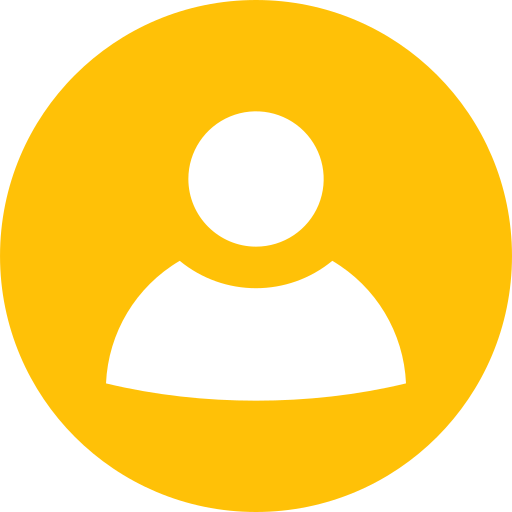
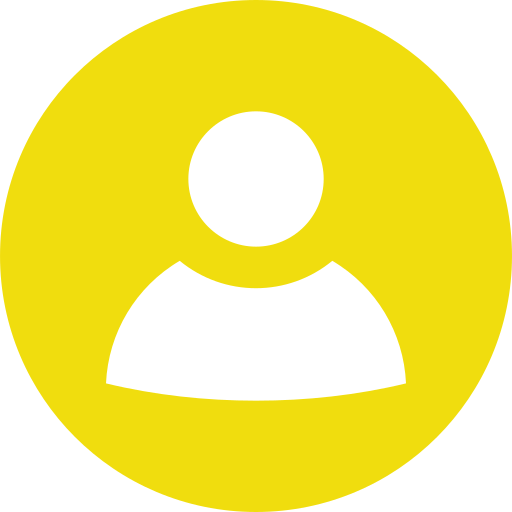
[TK-03] Registro e inicio de sesion completo

diff --git a/src/app/pages/login/login.component.ts b/src/app/pages/login/login.component.ts
@@ -1,3 +1,4 @@
+import { Router } from '@angular/router';
 import { LoginService } from './../../services/login.service';
 import { MatSnackBar } from '@angular/material/snack-bar';
 import { Component, OnInit } from '@angular/core';
@@ -15,7 +16,8 @@ export class LoginComponent implements OnInit {
   }
 
   constructor(private snack:MatSnackBar,
-    private loginService:LoginService) { }
+    private loginService:LoginService,
+    private router:Router) { }
 
   ngOnInit(): void {
   }
@@ -41,11 +43,29 @@ export class LoginComponent implements OnInit {
 
         this.loginService.loginUser(data.token);
         this.loginService.getUsuarioActual().subscribe((user:any) => {
+          this.loginService.setUser(user);
           console.log(user);
+
+          if(this.loginService.getUserRol() == 'ROLE_ADMIN'){
+            //dashboard admin
+            //window.location.href = '/admin';
+            this.router.navigate(['admin']);
+            this.loginService.loginStatusSubjec.next(true);
+          }else if(this.loginService.getUserRol() == 'ROLE_USER'){
+            //dashboard user
+            //window.location.href = '/user-dashboard';
+            this.router.navigate(['user-dashboard']);
+            this.loginService.loginStatusSubjec.next(true);
+          }else{
+            this.loginService.logOut();
+          }
         })
       },
       (error) => {
         console.log(error);
+        this.snack.open('Detalles invalidos, vuelva a intentarlo', 'Aceptar', {
+          duration: 3000
+        })
       }
     )
   }

diff --git a/src/app/components/navbar/navbar.component.html b/src/app/components/navbar/navbar.component.html
@@ -1,4 +1,4 @@
-<mat-toolbar color="primary">
+<mat-toolbar class="color-navbar">
     <a [routerLink] = "'/'"
         mat-icon-button class="example-icon" arial-label="example icon-button with menu icon">
         <mat-icon>fitness_center</mat-icon>
@@ -6,11 +6,32 @@
     <span>Gimnasio EnerGym</span>
     <span class="example-spacer"></span>
 
-    <a [routerLink] = "'login'" mat-icon-button class="example-icon favorite-icon" 
+    <a 
+    *ngIf = "!isLoggedIn"
+    [routerLink] = "'/login'" 
+    mat-icon-button class="example-icon favorite-icon" 
     aria-label="Example icon-button with heart icon"> Iniciar sesión </a>
 
-    <a [routerLink] = "'signup'" mat-icon-button class="example-icon favorite-icon mr20 ml70" 
+    <a 
+    *ngIf = "!isLoggedIn"
+    [routerLink] = "'/signup'" 
+    mat-icon-button class="example-icon favorite-icon mr20 ml70" 
     aria-label="Example icon-button with heart icon"> Registrarse </a>
 
+    <a 
+    *ngIf = "isLoggedIn"
+    (click) = "cerrarSesion()" 
+    style="margin-right: 50px;"
+    mat-icon-button class="example-icon favorite-icon" 
+    aria-label="Example icon-button with heart icon"> Cerrar sesión </a>
+
+    <button
+    *ngIf = "isLoggedIn && user"
+    mat-button 
+    style="margin-right: 10px;"
+    class="example-icon favorite-icon" 
+    aria-label="Example icon-button with heart icon"> 
+    {{user.username}}
+    </button>
 
 </mat-toolbar>

diff --git a/src/app/pages/login/login.component.html b/src/app/pages/login/login.component.html
@@ -7,6 +7,10 @@
                         <img src="../../../assets/login.png" width="100" height="100">
                     </div>
                     <h1 class="text-center"> Iniciar sesión </h1>
+
+                    <!-- formSubmit(): se encarga de validar que tanto usuario y contraseña hayan sido
+                         digitados de ser asi, se genera el token a partir del usuario actual
+                        (el que esta iniciando sesion) para ser almacenado en el LocalStorage-->
                     <form (ngSubmit) = "formSubmit()">
                         <mat-form-field class="full-width" appearance="outline">
                             <mat-label>Usuario</mat-label>
@@ -23,8 +27,8 @@
                         <br><br>
 
                         <div class="container text-center">
-                            <button mat-raised-button color="primary"> Iniciar sesion </button>
-                            <button type="reset" style="margin-left: 20px;" mat-raised-button color="accent"> Limpiar campos </button>
+                            <button class="background-button" mat-raised-button> Iniciar sesion </button>
+                            <button type="reset" style="margin-left: 20px;" mat-raised-button color="primary"> Limpiar campos </button>
                         </div>
                     </form>
                 </mat-card>

diff --git a/src/app/services/auth.interceptor.ts b/src/app/services/auth.interceptor.ts
@@ -1,14 +1,36 @@
 import { LoginService } from './login.service';
-import { HttpHandler, HttpInterceptor, HttpRequest } from "@angular/common/http";
+import { HttpEvent, HttpHandler, HttpInterceptor, HttpRequest, HTTP_INTERCEPTORS } from "@angular/common/http";
 import { Injectable } from "@angular/core";
+import { Observable } from 'rxjs';
 
 @Injectable()
 export class AuthInterceptor implements HttpInterceptor{
     
     constructor(private loginService:LoginService){}
 
+    /**
+     * El interceptor nos sirve para modificar peticiones.
+     * con este metodo lo que hacemos es añadir una cabecera del bearer token para cualquier tipo de 
+     * peticion... GET POST PUT DELETE
+     * @param req 
+     * @param next 
+     * @returns 
+     */
     intercept(req: HttpRequest<any>, next: HttpHandler): Observable<HttpEvent<any>> {
         let authReq = req;
-        
+        const token = this.loginService.getToken();
+
+        if(token != null){
+            authReq = authReq.clone({
+                setHeaders: {Authorization: `Bearer ${token}`}
+            })
+        }
+        return next.handle(authReq);
     }
 }
+
+export const AuthInterceptorProviders = [{
+    provide: HTTP_INTERCEPTORS,
+    useClass: AuthInterceptor,
+    multi: true
+}]

diff --git a/src/app/app.module.ts b/src/app/app.module.ts
@@ -19,6 +19,10 @@ import { HomeComponent } from './pages/home/home.component';
 import { MatCardModule } from '@angular/material/card';
 import {MatToolbarModule} from '@angular/material/toolbar';
 import {MatIconModule} from '@angular/material/icon';
+import { AuthInterceptorProviders } from './services/auth.interceptor';
+import { DashboardComponent } from './pages/admin/dashboard/dashboard.component';
+import { UserDashboardComponent } from './pages/user/user-dashboard/user-dashboard.component';
+import { ProfileComponent } from './pages/profile/profile.component';
 
 @NgModule({
   declarations: [
@@ -26,7 +30,10 @@ import {MatIconModule} from '@angular/material/icon';
     NavbarComponent,
     SignupComponent,
     LoginComponent,
-    HomeComponent
+    HomeComponent,
+    DashboardComponent,
+    UserDashboardComponent,
+    ProfileComponent
   ],
   imports: [
     BrowserModule,
@@ -42,7 +49,7 @@ import {MatIconModule} from '@angular/material/icon';
     MatToolbarModule,
     MatIconModule
   ],
-  providers: [],
+  providers: [AuthInterceptorProviders],
   bootstrap: [AppComponent]
 })
 export class AppModule { }

diff --git a/src/app/app-routing.module.ts b/src/app/app-routing.module.ts
@@ -1,7 +1,11 @@
+import { NormalGuard } from './services/normal.guard';
+import { AdminGuard } from './services/admin.guards';
+import { UserDashboardComponent } from './pages/user/user-dashboard/user-dashboard.component';
+import { DashboardComponent } from './pages/admin/dashboard/dashboard.component';
 import { LoginComponent } from './pages/login/login.component';
 import { SignupComponent } from './pages/signup/signup.component';
 import { NgModule, Component } from '@angular/core';
-import { RouterModule, Routes } from '@angular/router';
+import { RouterModule, Routes, CanActivate } from '@angular/router';
 import { HomeComponent } from './pages/home/home.component';
 
 const routes: Routes = [
@@ -25,6 +29,18 @@ const routes: Routes = [
     path:'login',
     component:LoginComponent,
     pathMatch:'full'
+  },
+  {
+    path:'admin',
+    component:DashboardComponent,
+    pathMatch:'full',
+    canActivate:[AdminGuard]
+  },
+  {
+    path:'user-dashboard',
+    component:UserDashboardComponent,
+    pathMatch:'full',
+    canActivate: [NormalGuard]
   }
 ];
 

diff --git a/src/app/services/admin.guards.ts b/src/app/services/admin.guards.ts
@@ -1,0 +1,32 @@
+import { LoginService } from './login.service';
+import { Injectable } from '@angular/core';
+import { ActivatedRouteSnapshot, CanActivate, Router, RouterStateSnapshot, UrlTree } from '@angular/router';
+import { Observable } from 'rxjs';
+
+@Injectable({
+  providedIn: 'root'
+})
+export class AdminGuard implements CanActivate {
+
+  constructor(private loginService:LoginService,private router:Router){}
+
+  /**
+   * Los Guard se ejecutan antes de cargar una ruta y determinan si se puede cargar
+   * dicha ruta o no 
+   * canActivate: Antes de cargar los componentes de la ruta 
+   * @param route 
+   * @param state 
+   * @returns 
+   */
+  canActivate(
+    route: ActivatedRouteSnapshot,
+    state: RouterStateSnapshot): Observable<boolean | UrlTree> | Promise<boolean | UrlTree> | boolean | UrlTree {
+    if(this.loginService.isLoggedIn() && this.loginService.getUserRol() == 'ROLE_ADMIN'){
+      return true;
+    }
+
+    this.router.navigate(['login']);
+    return false;
+  }
+
+}

diff --git a/src/app/components/navbar/navbar.component.ts b/src/app/components/navbar/navbar.component.ts
@@ -1,4 +1,5 @@
 import { Component, OnInit } from '@angular/core';
+import { LoginService } from 'src/app/services/login.service';
 
 @Component({
   selector: 'app-navbar',
@@ -7,9 +8,24 @@ import { Component, OnInit } from '@angular/core';
 })
 export class NavbarComponent implements OnInit {
 
-  constructor() { }
+  isLoggedIn = false;
+  user:any = null;
+
+  constructor(public login:LoginService) { }
 
   ngOnInit(): void {
+    this.isLoggedIn = this.login.isLoggedIn();
+    this.user = this.login.getUser();
+    this.login.loginStatusSubjec.asObservable().subscribe(
+      data => {
+        this.isLoggedIn = this.login.isLoggedIn();
+        this.user = this.login.getUser();
+      }
+    )
   }
 
+  public cerrarSesion(){
+    this.login.logOut();
+    window.location.reload();
+  }
 }

diff --git a/src/app/services/normal.guard.ts b/src/app/services/normal.guard.ts
@@ -1,0 +1,23 @@
+import { Injectable } from '@angular/core';
+import { ActivatedRouteSnapshot, CanActivate, Router, RouterStateSnapshot, UrlTree } from '@angular/router';
+import { Observable } from 'rxjs';
+import { LoginService } from './login.service';
+
+@Injectable({
+  providedIn: 'root'
+})
+export class NormalGuard implements CanActivate {
+
+  constructor(private loginService:LoginService,private router:Router){}
+
+  canActivate(
+    route: ActivatedRouteSnapshot,
+    state: RouterStateSnapshot): Observable<boolean | UrlTree> | Promise<boolean | UrlTree> | boolean | UrlTree {
+      if(this.loginService.isLoggedIn() && this.loginService.getUserRol() == 'ROLE_USER'){
+        return true;
+      }
+  
+      this.router.navigate(['login']);
+      return false;
+    }
+}

diff --git a/src/app/pages/user/user-dashboard/user-dashboard.component.spec.ts b/src/app/pages/user/user-dashboard/user-dashboard.component.spec.ts
@@ -1,0 +1,23 @@
+import { ComponentFixture, TestBed } from '@angular/core/testing';
+
+import { UserDashboardComponent } from './user-dashboard.component';
+
+describe('UserDashboardComponent', () => {
+  let component: UserDashboardComponent;
+  let fixture: ComponentFixture<UserDashboardComponent>;
+
+  beforeEach(async () => {
+    await TestBed.configureTestingModule({
+      declarations: [ UserDashboardComponent ]
+    })
+    .compileComponents();
+
+    fixture = TestBed.createComponent(UserDashboardComponent);
+    component = fixture.componentInstance;
+    fixture.detectChanges();
+  });
+
+  it('should create', () => {
+    expect(component).toBeTruthy();
+  });
+});

diff --git a/src/app/pages/admin/dashboard/dashboard.component.spec.ts b/src/app/pages/admin/dashboard/dashboard.component.spec.ts
@@ -1,0 +1,23 @@
+import { ComponentFixture, TestBed } from '@angular/core/testing';
+
+import { DashboardComponent } from './dashboard.component';
+
+describe('DashboardComponent', () => {
+  let component: DashboardComponent;
+  let fixture: ComponentFixture<DashboardComponent>;
+
+  beforeEach(async () => {
+    await TestBed.configureTestingModule({
+      declarations: [ DashboardComponent ]
+    })
+    .compileComponents();
+
+    fixture = TestBed.createComponent(DashboardComponent);
+    component = fixture.componentInstance;
+    fixture.detectChanges();
+  });
+
+  it('should create', () => {
+    expect(component).toBeTruthy();
+  });
+});

diff --git a/src/app/pages/signup/signup.component.html b/src/app/pages/signup/signup.component.html
@@ -66,8 +66,8 @@
                     </mat-form-field>
 
                     <div class="container text-center">
-                        <button mat-raised-button color="primary"> Registrar </button>
-                        <button type="reset" style="margin-left: 20px;" mat-raised-button color="accent"> Limpiar campos </button>
+                        <button class="background-button" mat-raised-button> Registrar </button>
+                        <button type="reset" style="margin-left: 20px;" mat-raised-button color="primary"> Limpiar campos </button>
                     </div>
                 </form>
                 <br><br><br>
